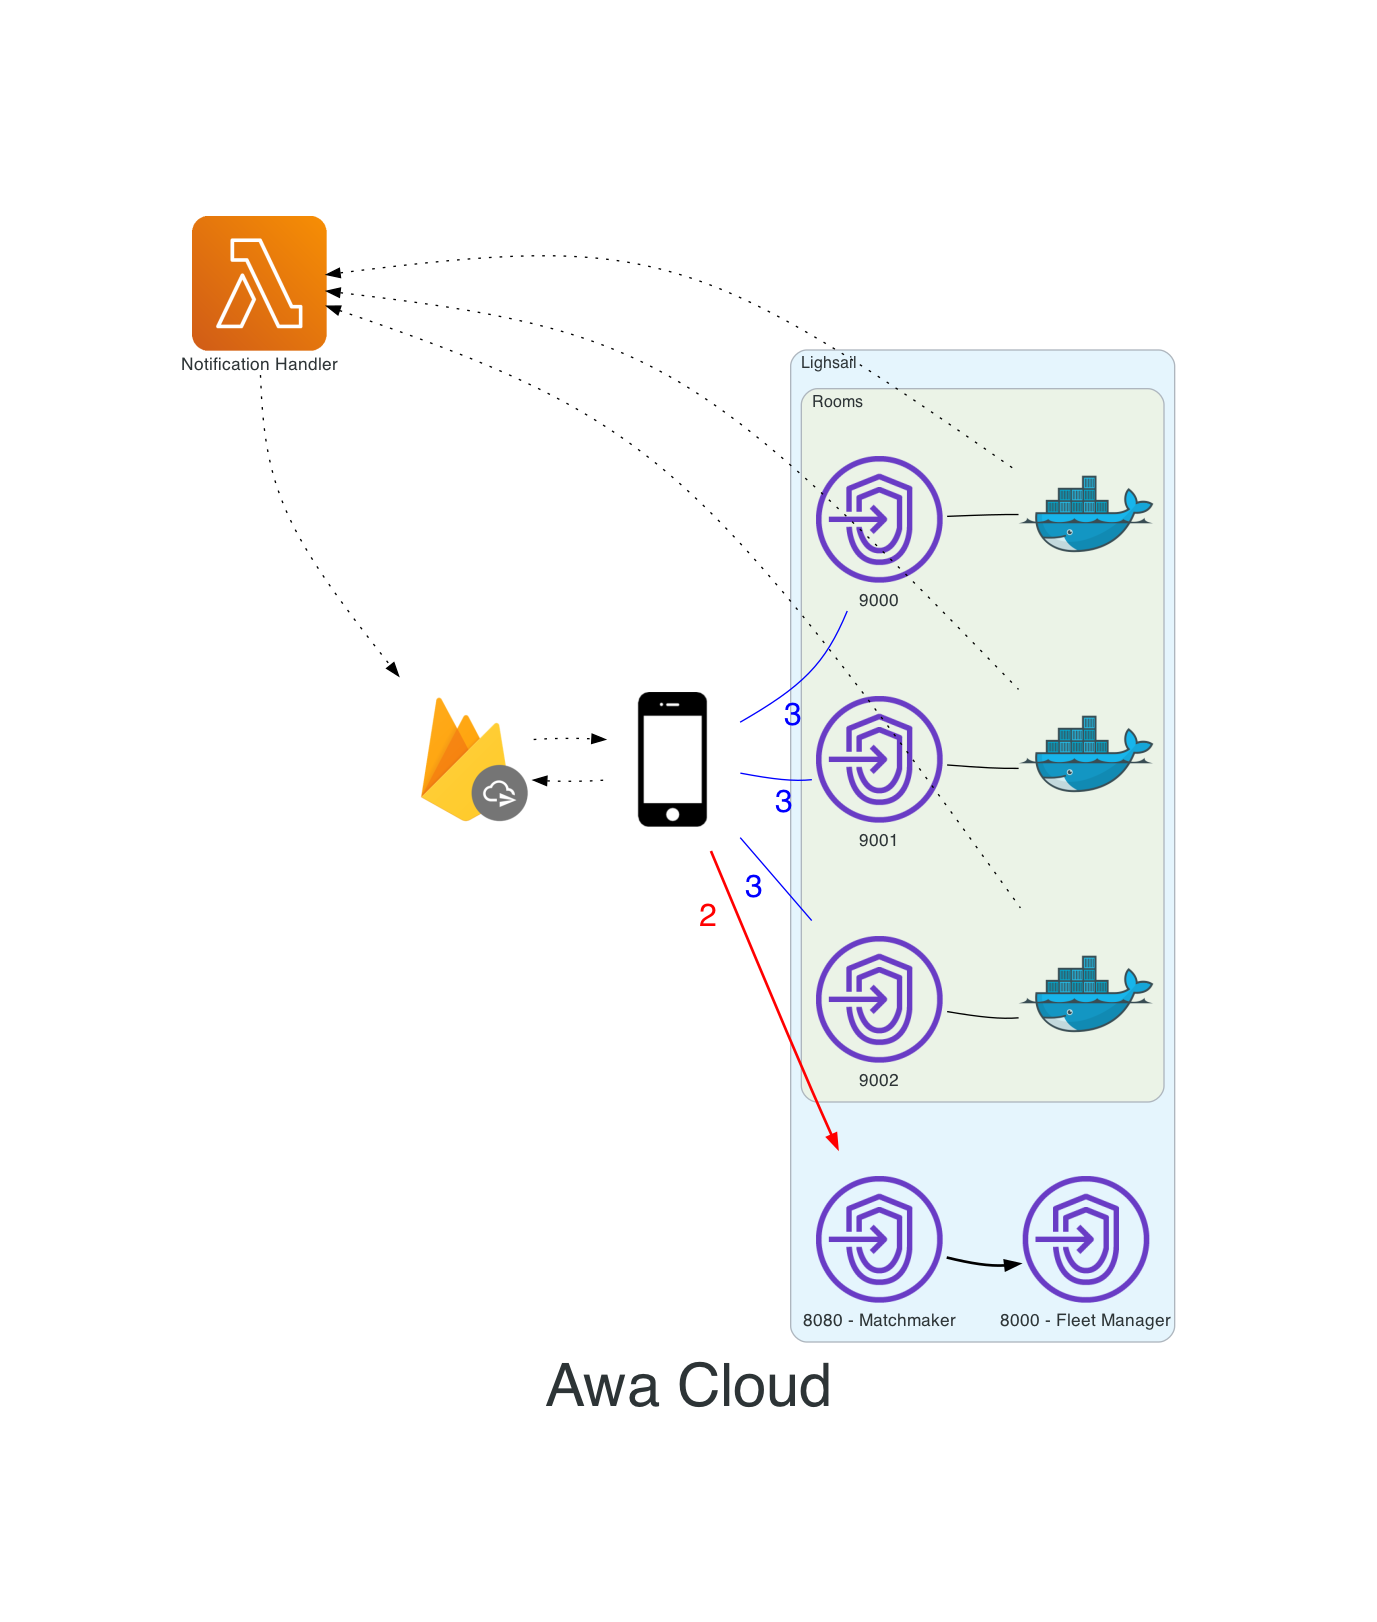
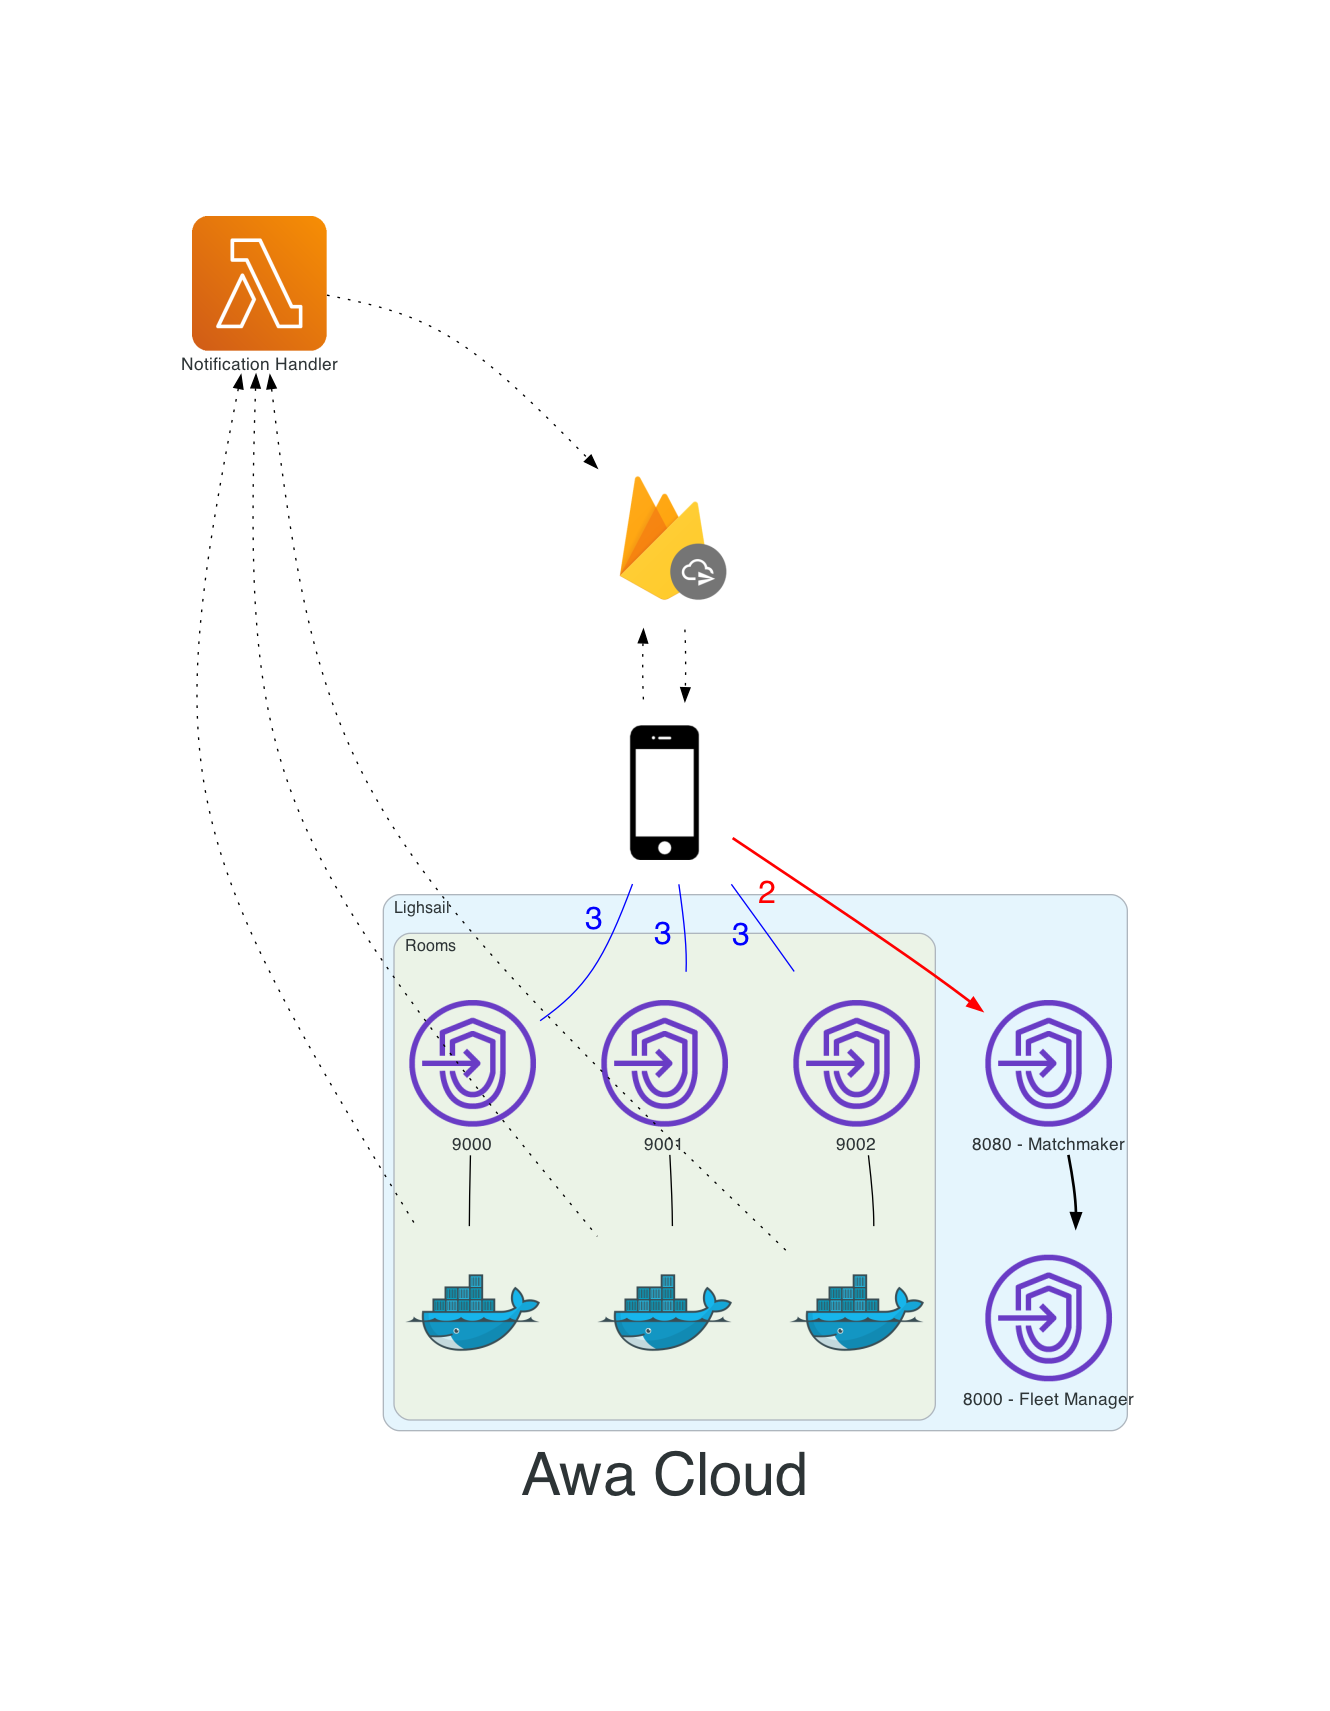
Update README

diff --git a/diagram-cloud-architecture/diagram.py b/diagram-cloud-architecture/diagram.py
@@ -19,7 +19,8 @@ with Diagram(
     show=False,
     graph_attr=graph_attr,
     curvestyle="curved",
-    edge_attr=edge_attr
+    edge_attr=edge_attr,
+    direction="TB",
     ):
       
     with Cluster("Lighsail"): 

diff --git a/README.md b/README.md
@@ -10,10 +10,6 @@
 
 > This architecture is *centralised*
 
-## Ideal Architecture
-
-> `Federated` architecture will simply remove the **_client models_ database**
-
 # App states
 
 ```mermaid
